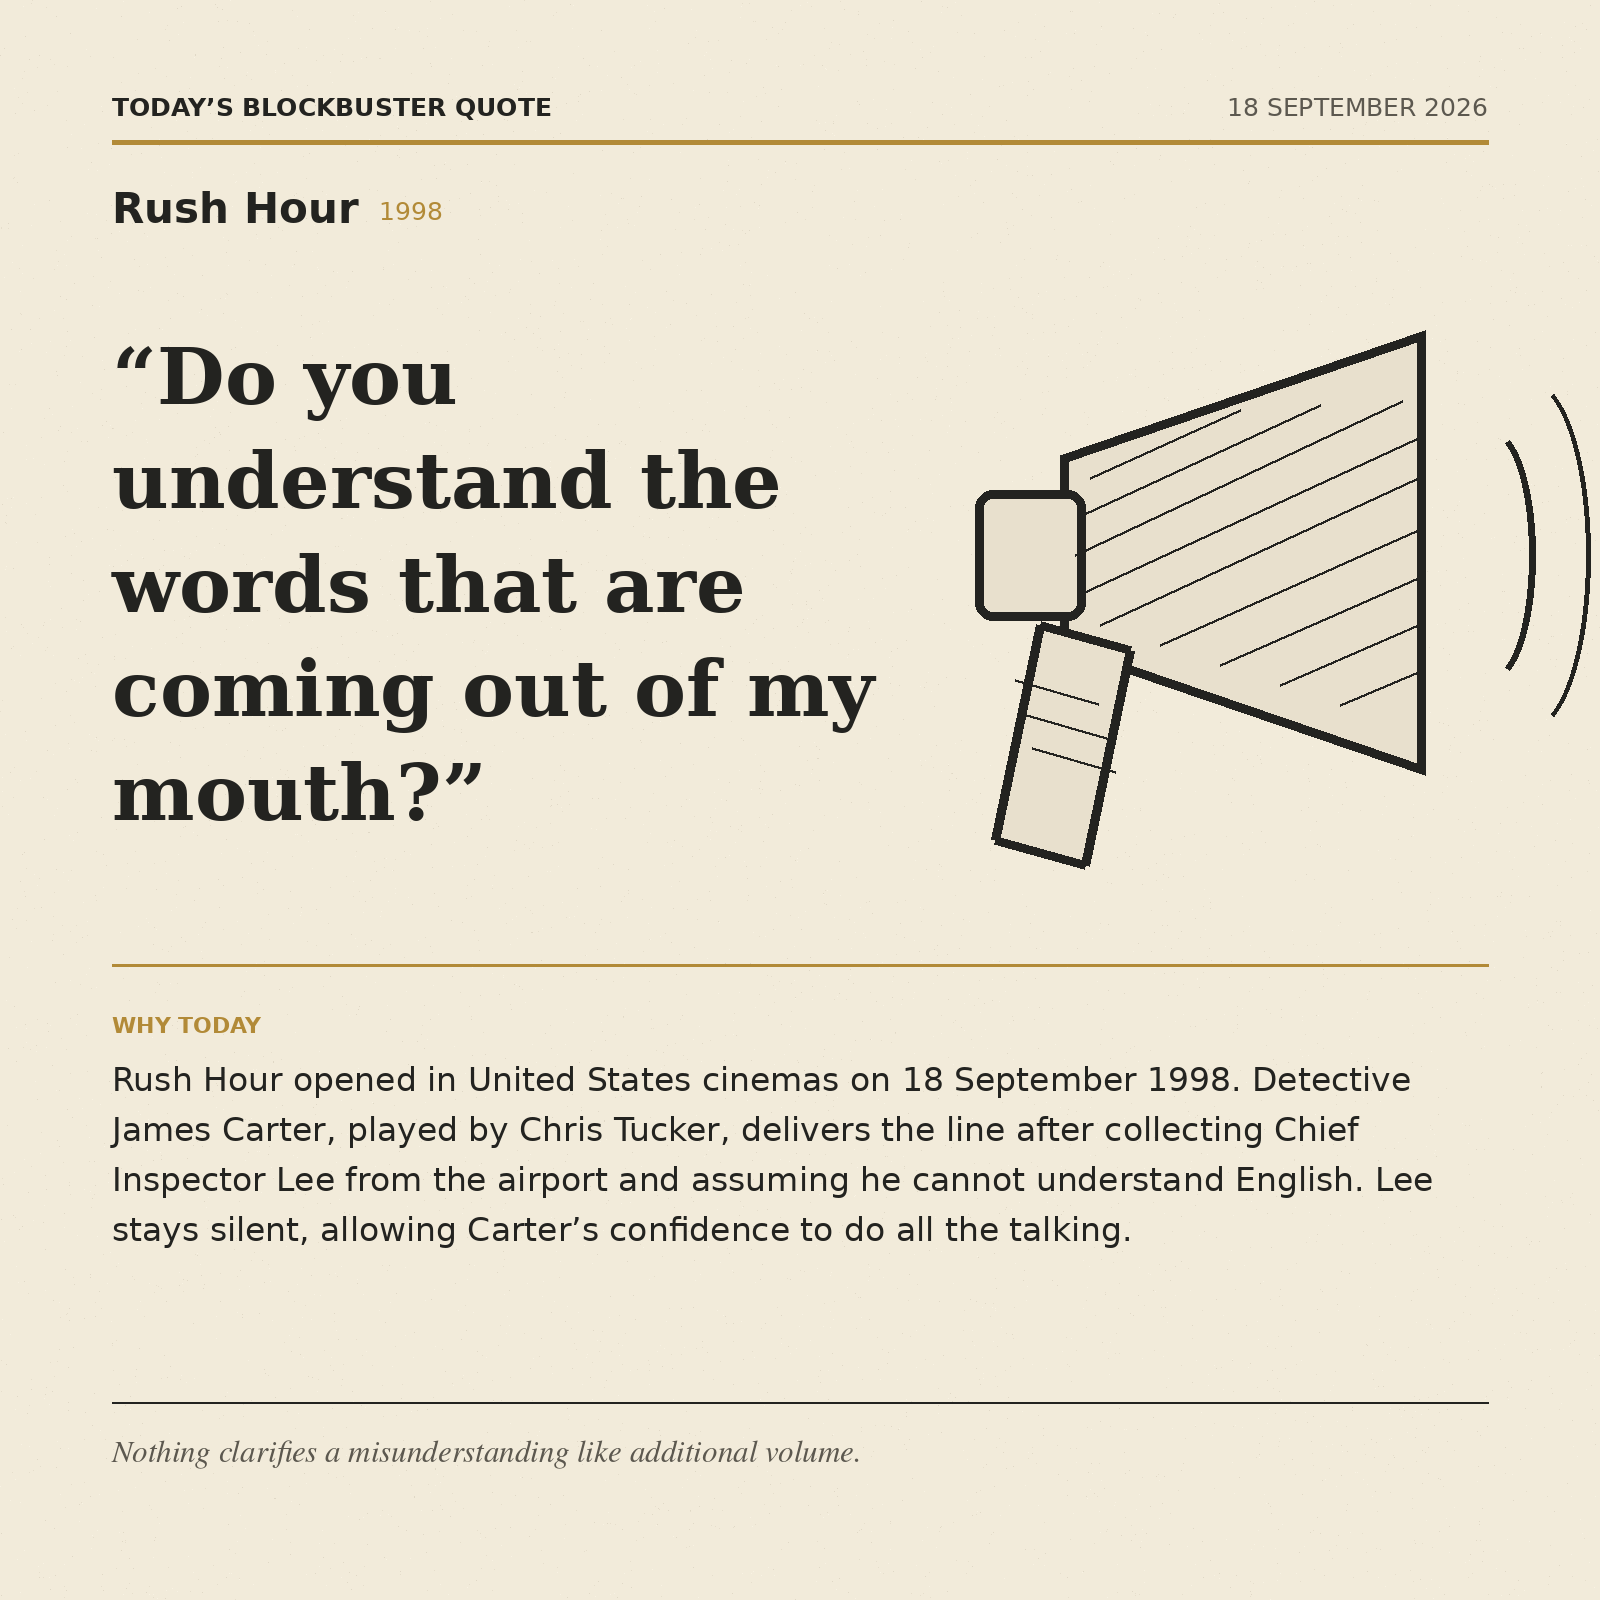
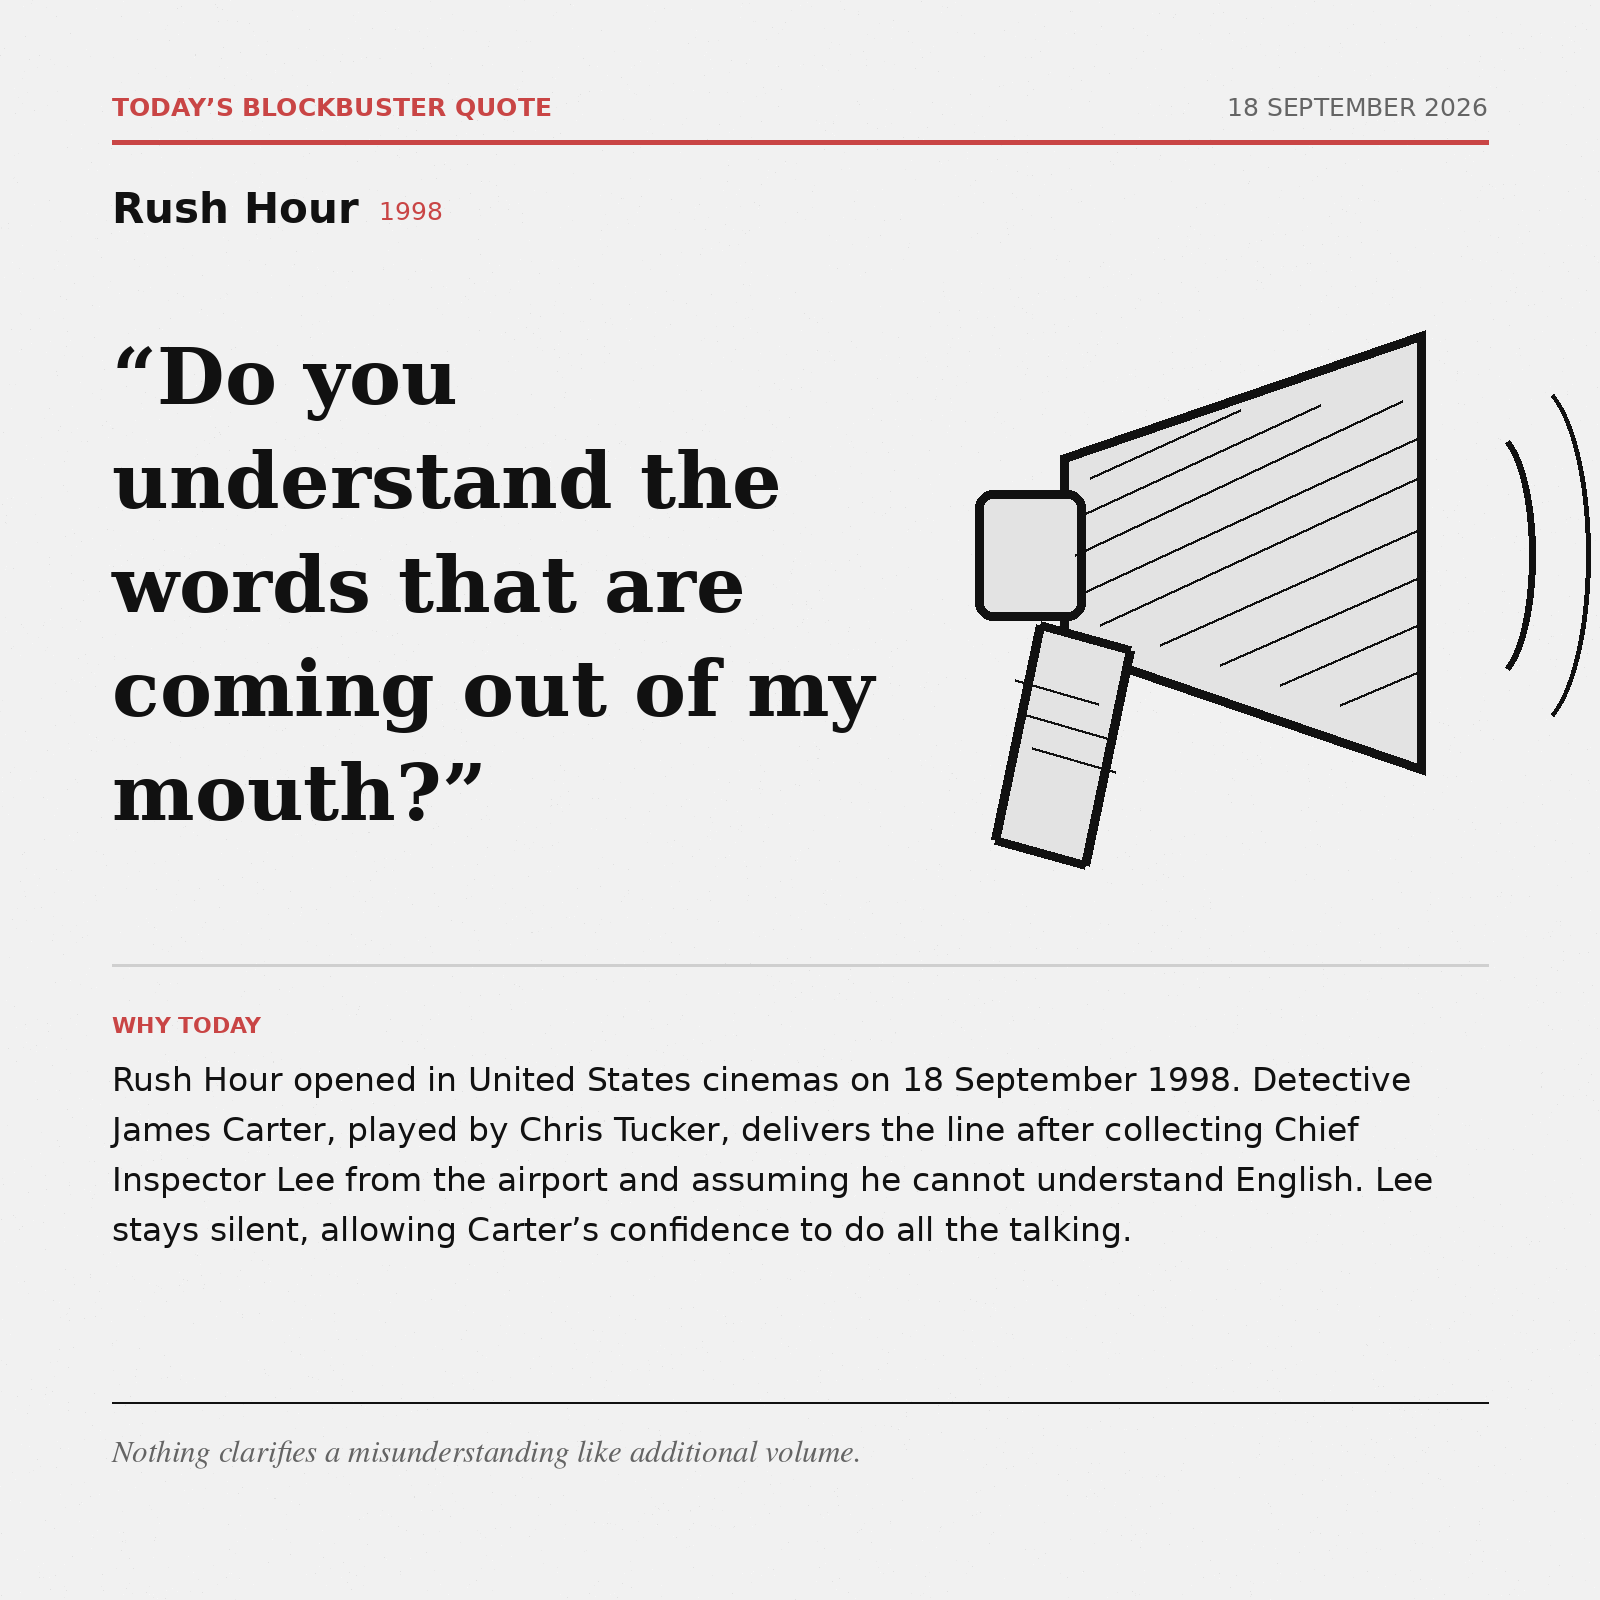
Match Blockbuster Quote cards to site palette

Changed region(s): [[0.0625, 0.0625, 0.9062, 0.0938], [0.0625, 0.625, 0.1562, 0.6562], [0.25, 0.125, 0.2812, 0.1562]]

diff --git a/scripts/render_blockbuster_quote.py b/scripts/render_blockbuster_quote.py
@@ -13,10 +13,12 @@ from PIL import Image, ImageDraw, ImageFont
 
 
 SIZE = 1600
-CREAM = (242, 235, 218)
-CHARCOAL = (35, 35, 32)
-GOLD = (178, 138, 55)
-MUTED = (92, 88, 79)
+PAPER = (241, 241, 241)      # site --paper: #f1f1f1
+INK = (17, 17, 17)          # site --ink: #111111
+MUTED = (100, 100, 100)     # site --muted: #646464
+LINE = (207, 207, 207)      # site --line: #cfcfcf
+ACCENT = (201, 69, 69)      # site --accent: #c94545
+SKETCH_FILL = (227, 227, 227)
 
 FONT_SANS = "/usr/share/fonts/truetype/dejavu/DejaVuSans.ttf"
 FONT_SANS_BOLD = "/usr/share/fonts/truetype/dejavu/DejaVuSans-Bold.ttf"
@@ -56,10 +58,10 @@ def fit_lines(draw: ImageDraw.ImageDraw, copy: str, face: ImageFont.FreeTypeFont
 def draw_megaphone(draw: ImageDraw.ImageDraw) -> None:
     """Draw one symbolic, monochrome, cross-hatched megaphone."""
     horn = [(1060, 455), (1425, 330), (1425, 775), (1060, 650)]
-    draw.polygon(horn, fill=(232, 224, 205), outline=CHARCOAL, width=9)
-    draw.rounded_rectangle((975, 490, 1085, 620), radius=18, fill=(232, 224, 205), outline=CHARCOAL, width=9)
-    draw.polygon([(1040, 625), (1130, 650), (1085, 865), (995, 840)], fill=(232, 224, 205), outline=CHARCOAL)
-    draw.line([(1040, 625), (1130, 650), (1085, 865), (995, 840), (1040, 625)], fill=CHARCOAL, width=9)
+    draw.polygon(horn, fill=SKETCH_FILL, outline=INK, width=9)
+    draw.rounded_rectangle((975, 490, 1085, 620), radius=18, fill=SKETCH_FILL, outline=INK, width=9)
+    draw.polygon([(1040, 625), (1130, 650), (1085, 865), (995, 840)], fill=SKETCH_FILL, outline=INK)
+    draw.line([(1040, 625), (1130, 650), (1085, 865), (995, 840), (1040, 625)], fill=INK, width=9)
 
     # Deliberately imperfect-looking hatch strokes, clipped by hand to the horn.
     hatch = [
@@ -70,24 +72,24 @@ def draw_megaphone(draw: ImageDraw.ImageDraw) -> None:
         ((1340, 705), (1418, 672)),
     ]
     for start, end in hatch:
-        draw.line([start, end], fill=CHARCOAL, width=3)
+        draw.line([start, end], fill=INK, width=3)
     for offset in (0, 34, 68):
-        draw.line([(1015 + offset // 4, 680 + offset), (1098 + offset // 4, 704 + offset)], fill=CHARCOAL, width=3)
+        draw.line([(1015 + offset // 4, 680 + offset), (1098 + offset // 4, 704 + offset)], fill=INK, width=3)
 
     # Sound marks belong to the same single symbolic sketch.
-    draw.arc((1450, 430, 1535, 680), -67, 67, fill=CHARCOAL, width=7)
-    draw.arc((1470, 380, 1590, 730), -67, 67, fill=CHARCOAL, width=5)
+    draw.arc((1450, 430, 1535, 680), -67, 67, fill=INK, width=7)
+    draw.arc((1470, 380, 1590, 730), -67, 67, fill=INK, width=5)
 
 
 def render(data: dict, output: Path) -> None:
-    image = Image.new("RGB", (SIZE, SIZE), CREAM)
+    image = Image.new("RGB", (SIZE, SIZE), PAPER)
     draw = ImageDraw.Draw(image)
 
     # A fixed seed gives the paper a reproducible, lightly flecked surface.
     rng = random.Random(18091998)
     for _ in range(7200):
         x, y = rng.randrange(SIZE), rng.randrange(SIZE)
-        shade = rng.choice(((224, 216, 198), (248, 242, 227), (230, 222, 204)))
+        shade = rng.choice(((224, 224, 224), (247, 247, 247), (233, 233, 233)))
         draw.point((x, y), fill=shade)
 
     run_date = data["date"]
@@ -104,32 +106,32 @@ def render(data: dict, output: Path) -> None:
     body_face = font(FONT_SANS, 33)
     kicker_face = font(FONT_SERIF_ITALIC, 31)
 
-    draw.text((margin, 92), data["header"], font=header_face, fill=CHARCOAL)
+    draw.text((margin, 92), data["header"], font=header_face, fill=ACCENT)
     date_box = draw.textbbox((0, 0), display_date, font=date_face)
     draw.text((SIZE - margin - date_box[2], 92), display_date, font=date_face, fill=MUTED)
-    draw.line((margin, 142, SIZE - margin, 142), fill=GOLD, width=5)
+    draw.line((margin, 142, SIZE - margin, 142), fill=ACCENT, width=5)
 
-    draw.text((margin, 184), data["film"], font=film_face, fill=CHARCOAL)
+    draw.text((margin, 184), data["film"], font=film_face, fill=INK)
     film_width = draw.textbbox((margin, 184), data["film"], font=film_face)[2]
-    draw.text((film_width + 20, 196), str(data["film_year"]), font=date_face, fill=GOLD)
+    draw.text((film_width + 20, 196), str(data["film_year"]), font=date_face, fill=ACCENT)
 
     quote = f'“{data["quote"]}”'
     quote_lines = fit_lines(draw, quote, quote_face, 830)
     y = 330
     for line in quote_lines:
-        draw.text((margin, y), line, font=quote_face, fill=CHARCOAL)
+        draw.text((margin, y), line, font=quote_face, fill=INK)
         y += 104
 
     draw_megaphone(draw)
 
-    draw.line((margin, 965, SIZE - margin, 965), fill=GOLD, width=3)
-    draw.text((margin, 1012), "WHY TODAY", font=label_face, fill=GOLD)
+    draw.line((margin, 965, SIZE - margin, 965), fill=LINE, width=3)
+    draw.text((margin, 1012), "WHY TODAY", font=label_face, fill=ACCENT)
     y = 1060
     for line in fit_lines(draw, data["why_today"], body_face, SIZE - 2 * margin):
-        draw.text((margin, y), line, font=body_face, fill=CHARCOAL)
+        draw.text((margin, y), line, font=body_face, fill=INK)
         y += 50
 
-    draw.line((margin, 1402, SIZE - margin, 1402), fill=CHARCOAL, width=2)
+    draw.line((margin, 1402, SIZE - margin, 1402), fill=INK, width=2)
     draw.text((margin, 1440), data["kicker"], font=kicker_face, fill=MUTED)
 
     output.parent.mkdir(parents=True, exist_ok=True)

diff --git a/site/_blockbuster_quotes/2026-09-18-rush-hour.md b/site/_blockbuster_quotes/2026-09-18-rush-hour.md
@@ -11,7 +11,7 @@ kicker: "Nothing clarifies a misunderstanding like additional volume."
 connection_type: "wide theatrical release"
 connection_territory: "United States"
 hero_image: "/assets/blockbuster-quote/2026-09-18-rush-hour.png"
-hero_alt: "Square cream editorial card for Rush Hour featuring the quote ‘Do you understand the words that are coming out of my mouth?’, a cross-hatched megaphone illustration, the film’s 18 September 1998 United States opening connection and a dry closing observation."
+hero_alt: "Square grey, black and red editorial card for Rush Hour featuring the quote ‘Do you understand the words that are coming out of my mouth?’, a cross-hatched megaphone illustration, the film’s 18 September 1998 United States opening connection and a dry closing observation."
 sources:
   - role: date_link
     title: "The Numbers — Rush Hour (1998)"

diff --git a/spec/series/blockbuster-quote.md b/spec/series/blockbuster-quote.md
@@ -210,10 +210,11 @@ The illustration must introduce no new text or factual claim.
 
 LOCKED HOUSE STYLE
 - 1:1 square social/editorial card
-- warm cream/off-white lightly textured paper
+- soft grey lightly textured paper matching the site background (`#f1f1f1`)
 - unusually generous outer padding and negative space
-- charcoal/black typography
-- restrained muted-gold accents
+- near-black typography matching the site ink (`#111111`)
+- restrained coffeetableviz red accents (`#c94545`)
+- muted grey secondary text and divider rules
 - large elegant high-contrast serif for the quote
 - small uppercase contemporary sans-serif for date, heading and metadata
 - thin understated divider rules
